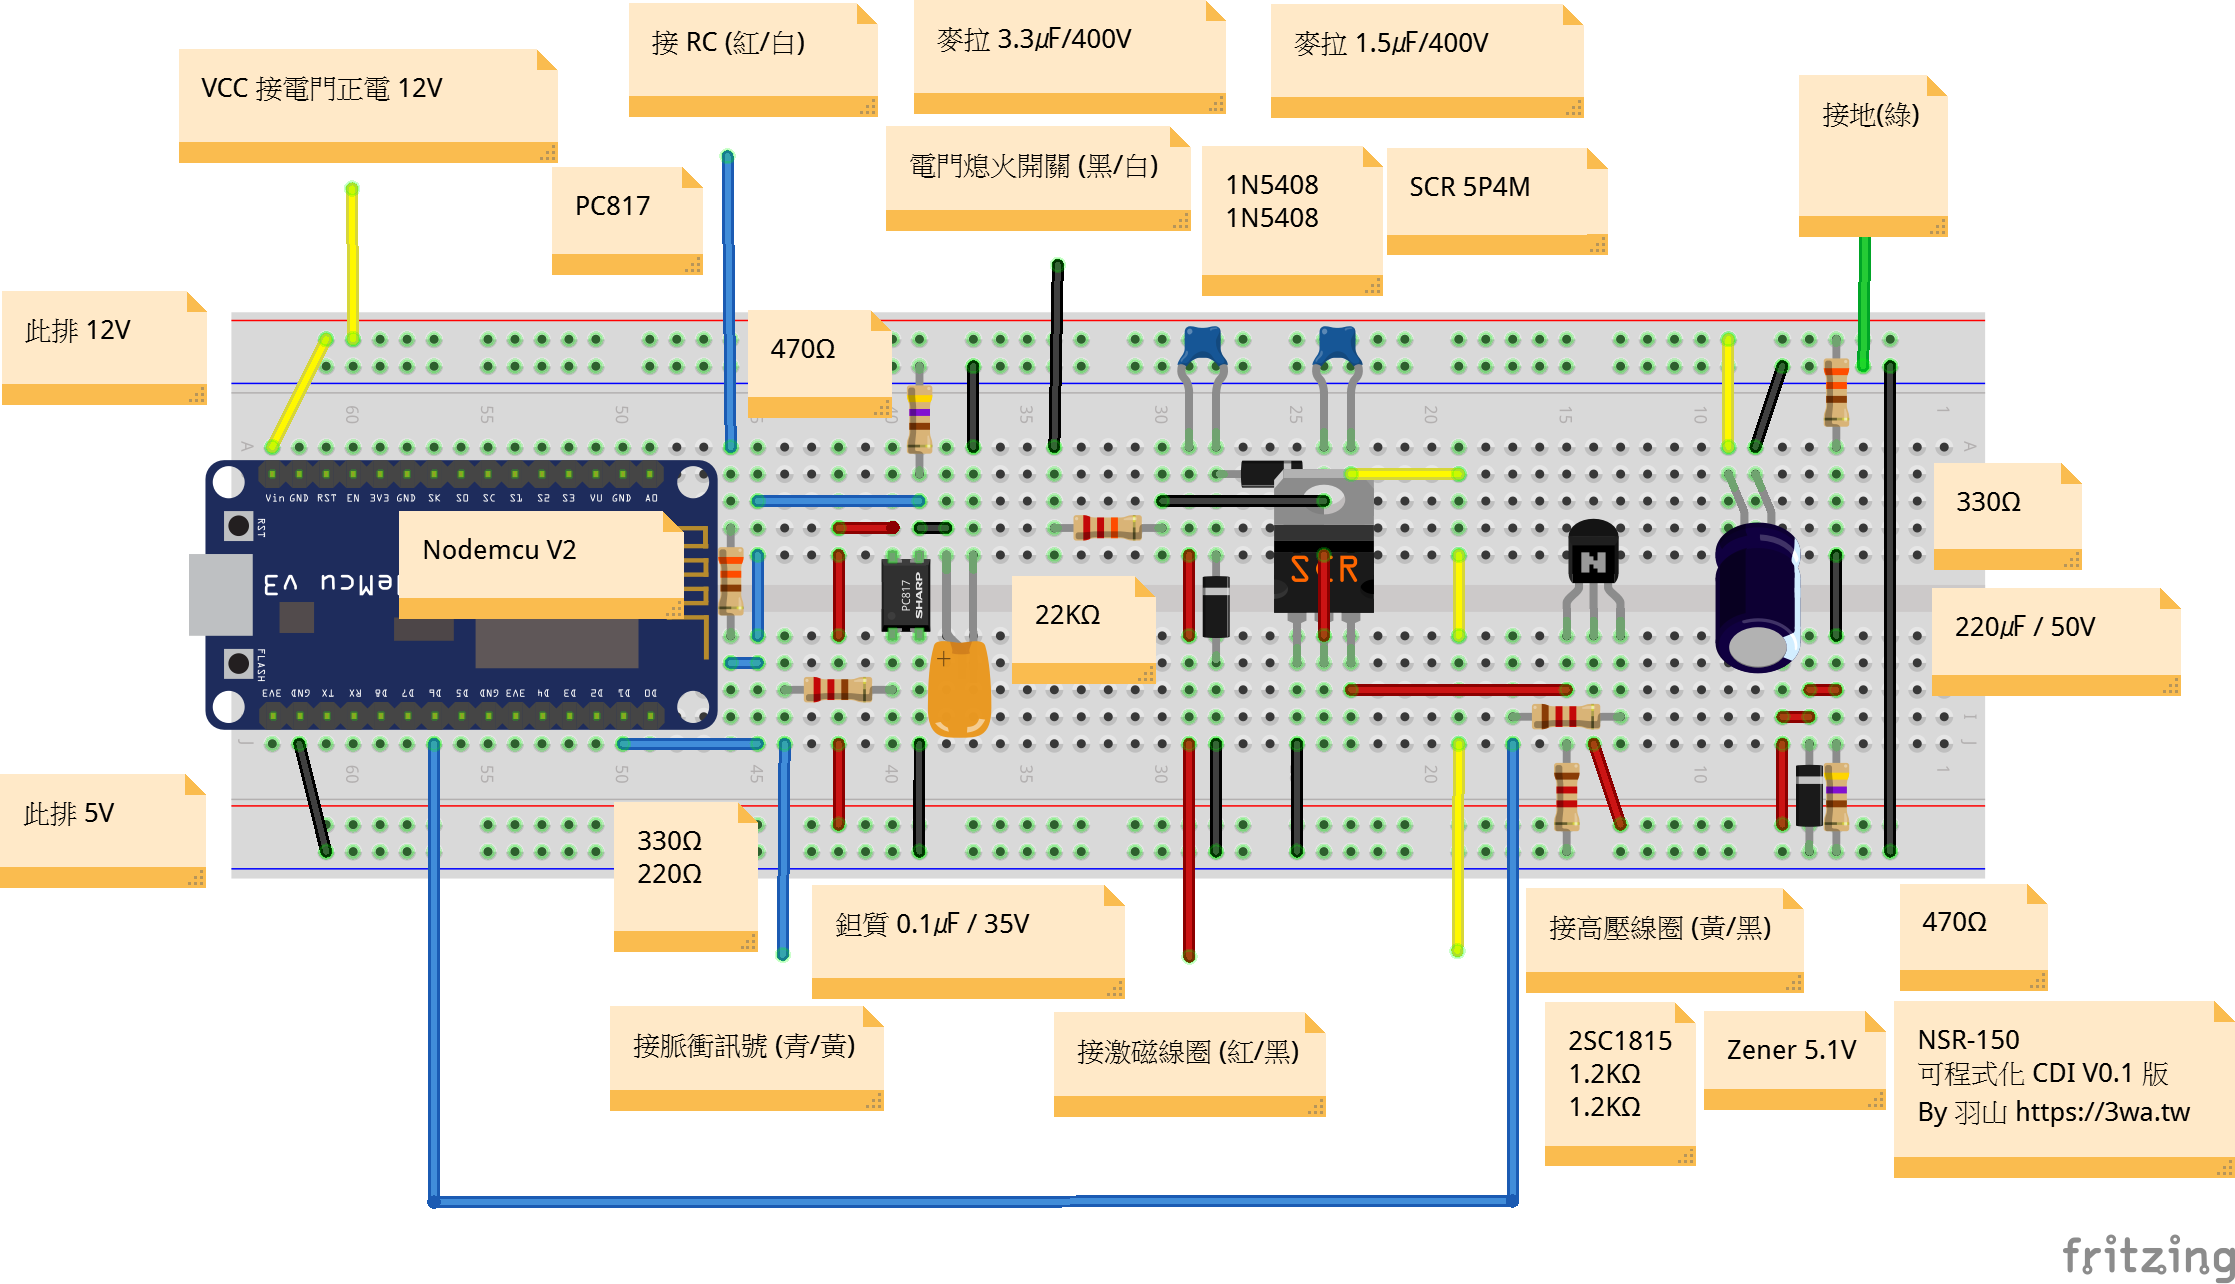
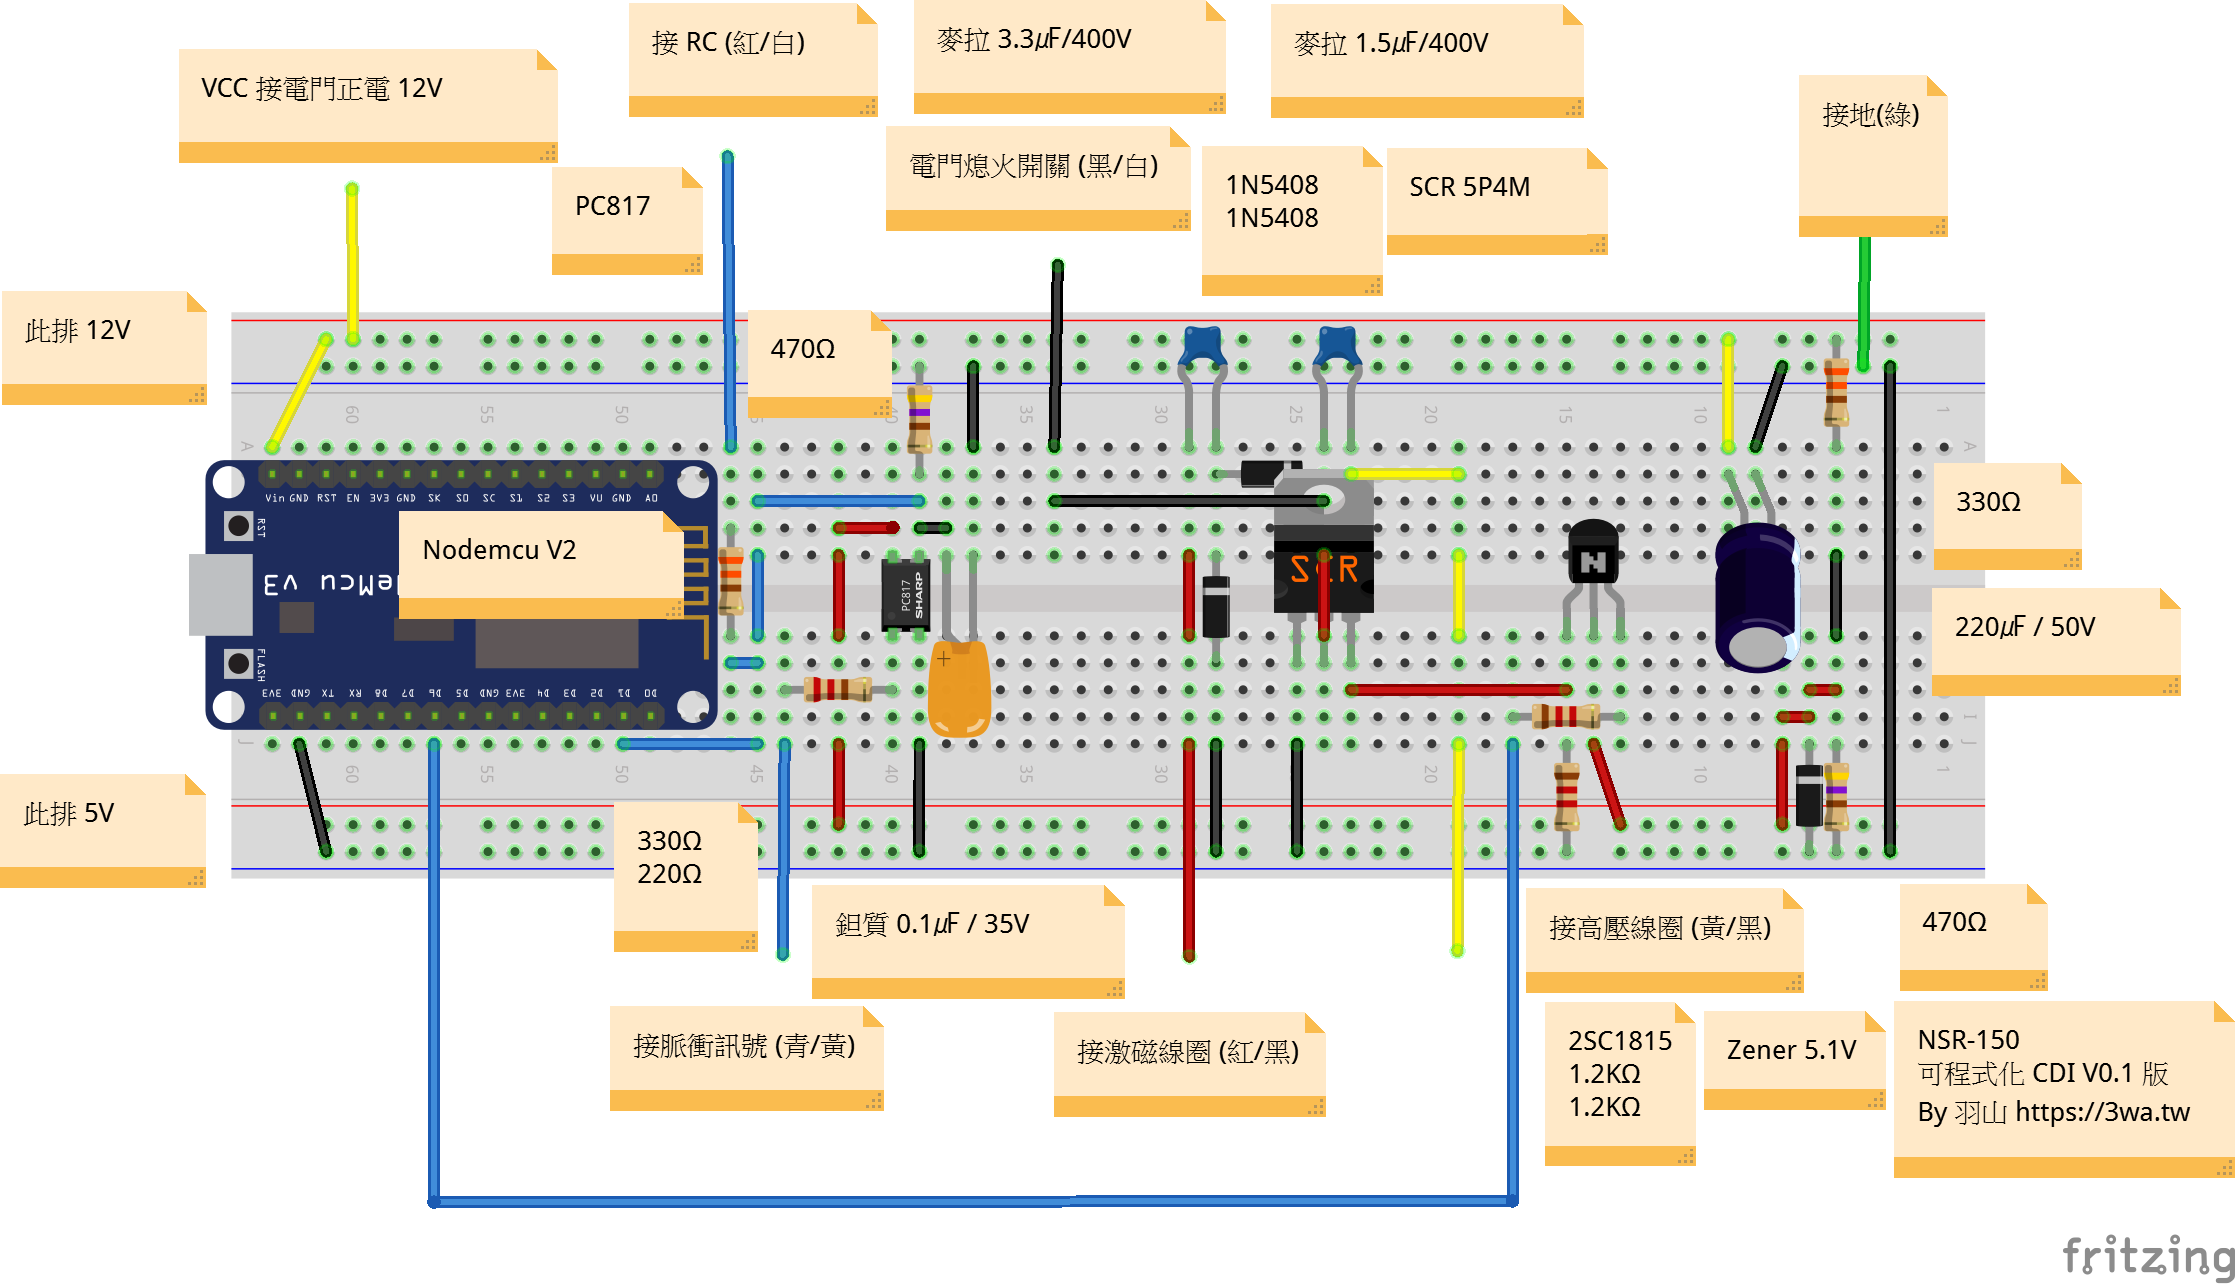
更新電路圖、說明

Changed region(s): [[0.4322, 0.3427, 0.5248, 0.5296]]

diff --git a/README.md b/README.md
@@ -46,4 +46,5 @@ V0.01
   <li>1. 影片參考：https://youtu.be/g--ht7JCfWI</li>
   <li>2. NSR150 自製可程式 CDI - Part1 (序) https://3wa.tw/blog/blog.php?id=1924</li>
   <li>3. NSR150 自製可程式 CDI - Part2 (研究方法目錄) https://3wa.tw/blog/blog.php?id=1926</li>
+  <li>4. NSR150 自製可程式 CDI - Part3 (實作練習) https://3wa.tw/blog/blog.php?id=1930</li>
 </ul>  
